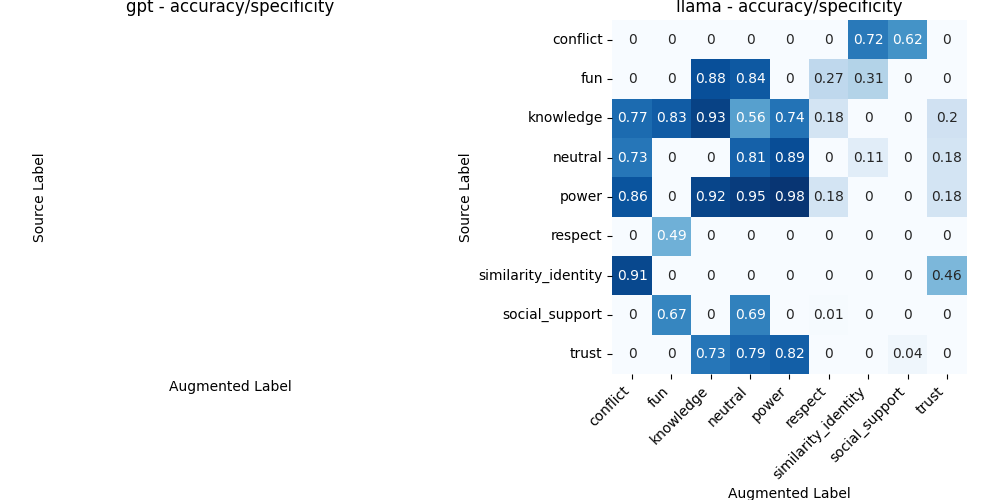
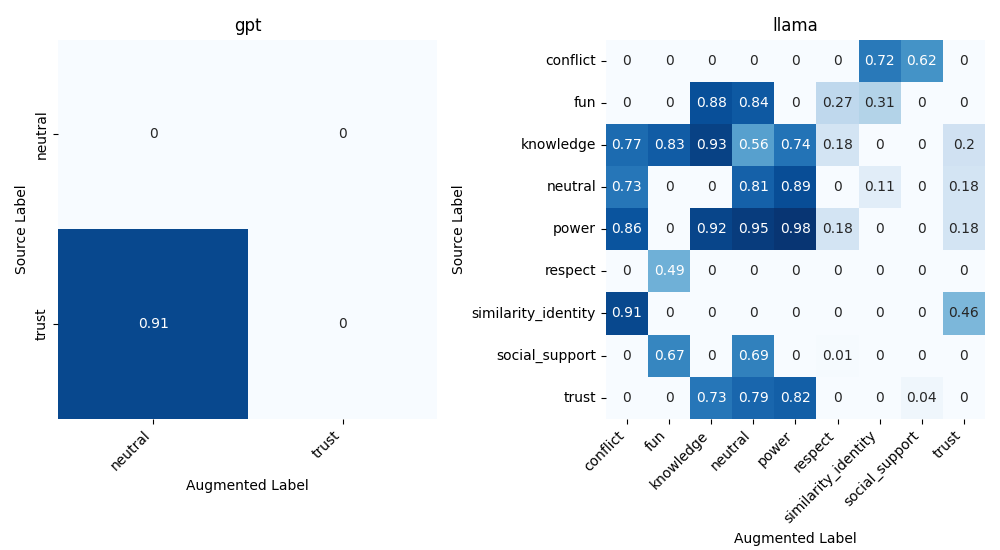
pisse godt

diff --git a/src/worker_vs_gpt/evaluation/gpt_self_evaluation.py b/src/worker_vs_gpt/evaluation/gpt_self_evaluation.py
@@ -2,3 +2,86 @@
 Similar to llama_self_evaluation.py, but for GPT-4.
 
 """
+
+"""
+The following file iterates over the data in the src/worker_vs_gpt/evaluation/subsets folder and evaluates all 
+.json files in it. The evaluation is done by comparing the original text to the augmented text and the original label
+
+All results are saved to subset results in the src/worker_vs_gpt/evaluation/subset_results folder.
+"""
+import json
+import os
+from pathlib import Path
+from typing import Dict, List
+
+from tqdm import tqdm
+from worker_vs_gpt.evaluation.gpt import GPT
+from worker_vs_gpt.evaluation.textpair import TextPair
+from worker_vs_gpt.utils import read_json
+
+
+def evaluate_subset(data: List[Dict]) -> List[Dict[str, str]]:
+    output: List[Dict[str, str]] = []
+    gpt = GPT()
+    for entry in tqdm(data, desc="Evaluating subset"):
+        tp: TextPair = TextPair(**entry)
+
+        response: str = gpt.generate(
+            original_label=tp.original_label,
+            original_text=tp.original_text,
+            augmented_text=tp.augmented_text,
+        )
+
+        tmp_prompt_string: str = gpt.llm_chain.json()
+
+        # read json from tmp_prompt_string
+        json_data = json.loads(tmp_prompt_string)
+        system_prompt = json_data["prompt"]["messages"][0]["prompt"]["template"]
+        user_prompt = json_data["prompt"]["messages"][1]["prompt"]["template"]
+        tp.prompt = {"system_prompt": system_prompt, "user_prompt": user_prompt}
+        tp.prompt_response = response
+
+        output.append(tp.__dict__)
+
+    return output
+
+
+if __name__ == "__main__":
+    import os
+    from pathlib import Path
+    from typing import Dict, List
+
+    from worker_vs_gpt.utils import read_json, save_json
+
+    root_path: Path = Path("src/worker_vs_gpt/evaluation/subsets")
+
+    folders: List[str] = [
+        folder for folder in os.listdir(root_path) if not folder.startswith(".")
+    ]
+
+    print("Folders to evaluate:", folders)
+
+    for folder_name in folders:
+        folder_path: Path = root_path / folder_name
+
+        files_to_evaluate: List[Path] = [
+            file_path
+            for file_path in folder_path.iterdir()
+            if file_path.suffix == ".json"
+        ]
+
+        for i, file_path in enumerate(files_to_evaluate):
+            print(f"Evaluating {folder_name} ({i+1}/{len(files_to_evaluate)})...")
+
+            outpath: Path = Path(
+                f"src/worker_vs_gpt/evaluation/subset_results/{folder_name}/gpt/{file_path.stem}.json"
+            )
+            if os.path.exists(outpath):
+                print(f"File already exists: {outpath}")
+                continue
+
+            data = read_json(file_path)
+
+            evaluated_data: List[Dict[str, str]] = evaluate_subset(data)
+
+            save_json(container=evaluated_data, path=outpath)

diff --git a/src/worker_vs_gpt/evaluation/gpt.py b/src/worker_vs_gpt/evaluation/gpt.py
@@ -1,14 +1,14 @@
-from dataclasses import dataclass, field
+from dataclasses import dataclass
+from dataclasses import field
 
 from dotenv import load_dotenv
 from langchain import LLMChain
 from langchain.chat_models import ChatOpenAI
-from langchain.prompts import (
-    ChatPromptTemplate,
-    HumanMessagePromptTemplate,
-    PromptTemplate,
-    SystemMessagePromptTemplate,
-)
+from langchain.prompts import ChatPromptTemplate
+from langchain.prompts import HumanMessagePromptTemplate
+from langchain.prompts import PromptTemplate
+from langchain.prompts import SystemMessagePromptTemplate
+
 
 load_dotenv()
 
@@ -18,12 +18,12 @@ class GPT:
     # Use default_factory to create a new instance for each GPT instance
     # model="gpt-4" is the default model
     gpt4_llm: ChatOpenAI = field(
-        default_factory=lambda: ChatOpenAI(model="gpt-3.5-turbo", temperature=0)
+        default_factory=lambda: ChatOpenAI(model="gpt-4", temperature=0)
     )
 
     def __post_init__(self):
         self.llm_chain: LLMChain = LLMChain(
-            prompt=self.get_chat_prompt(), llm=self.gpt4_llm, verbose=True
+            prompt=self.get_chat_prompt(), llm=self.gpt4_llm, verbose=False
         )
 
     def generate(

diff --git a/src/worker_vs_gpt/evaluation/evaluate_performance.py b/src/worker_vs_gpt/evaluation/evaluate_performance.py
@@ -8,7 +8,6 @@ import matplotlib.pyplot as plt
 import pandas as pd
 import seaborn as sns
 from tqdm import tqdm
-
 from worker_vs_gpt.evaluation.textpair import TextPair
 from worker_vs_gpt.utils import read_json
 
@@ -30,7 +29,7 @@ folders_to_evaluate: List[Path] = [
 ]
 
 # make the background transparent
-fig, ax = plt.subplots(1, 2, figsize=(10, 5))
+fig, ax = plt.subplots(1, 2, figsize=(10, 5.5))
 
 
 for ax_idx, folder_path in enumerate(folders_to_evaluate):
@@ -119,7 +118,7 @@ for ax_idx, folder_path in enumerate(folders_to_evaluate):
         vmin=0,
         vmax=1,
     )
-    ax[ax_idx].set_title(f"{model_type} - accuracy/specificity")
+    ax[ax_idx].set_title(f"{model_type}")  # - accuracy/specificity")
     ax[ax_idx].set_xlabel("Augmented Label")
     ax[ax_idx].set_ylabel("Source Label")
 
